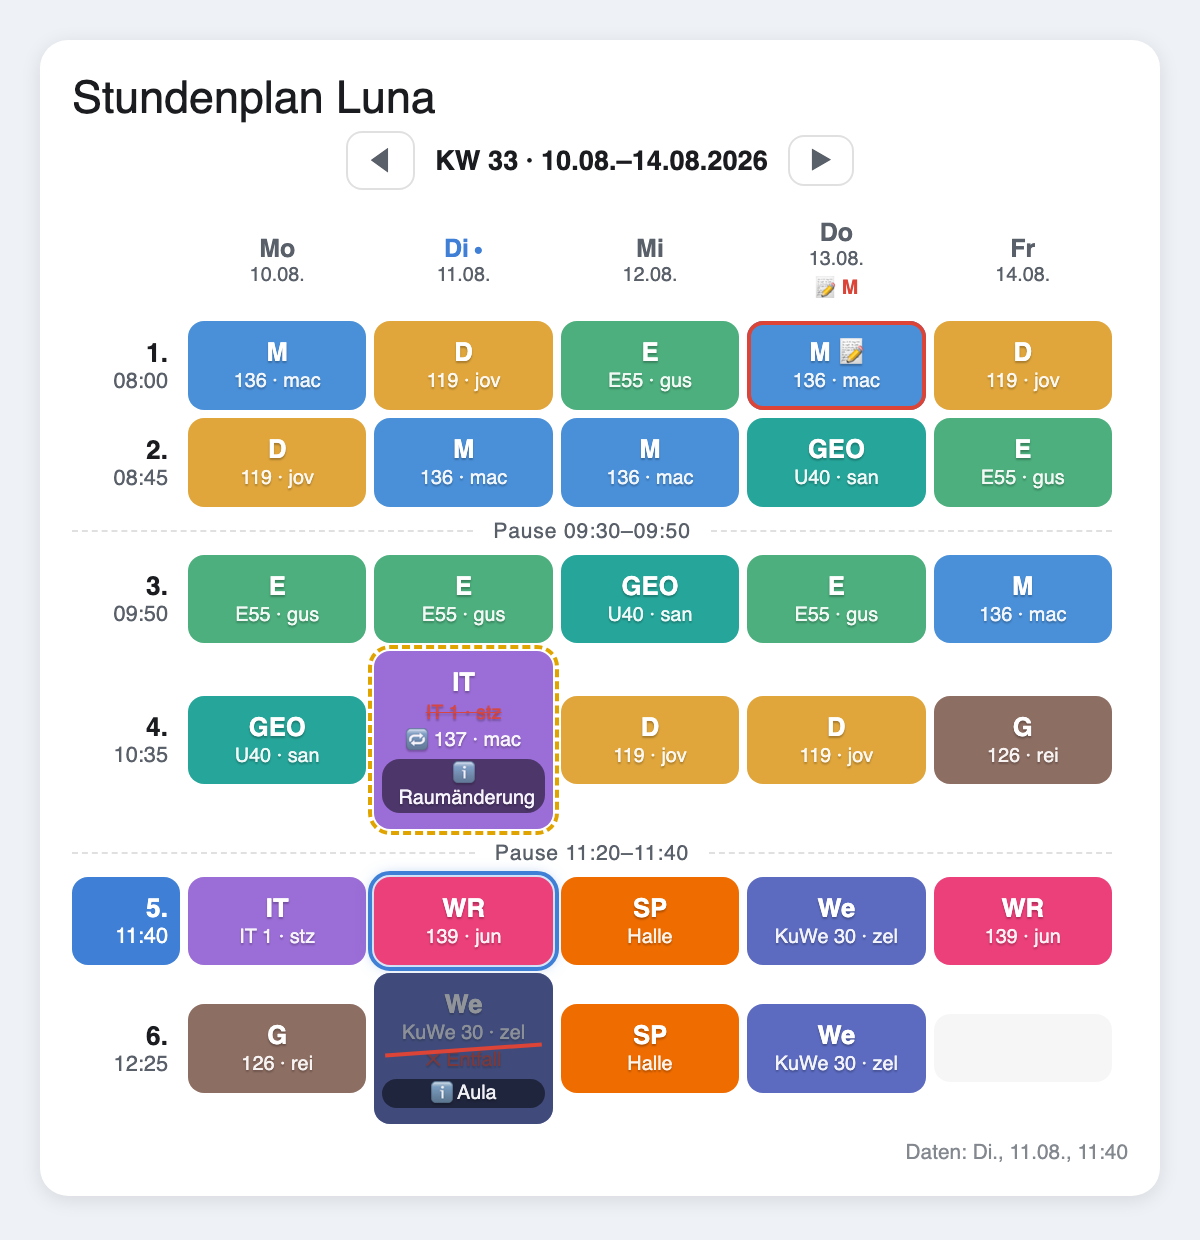
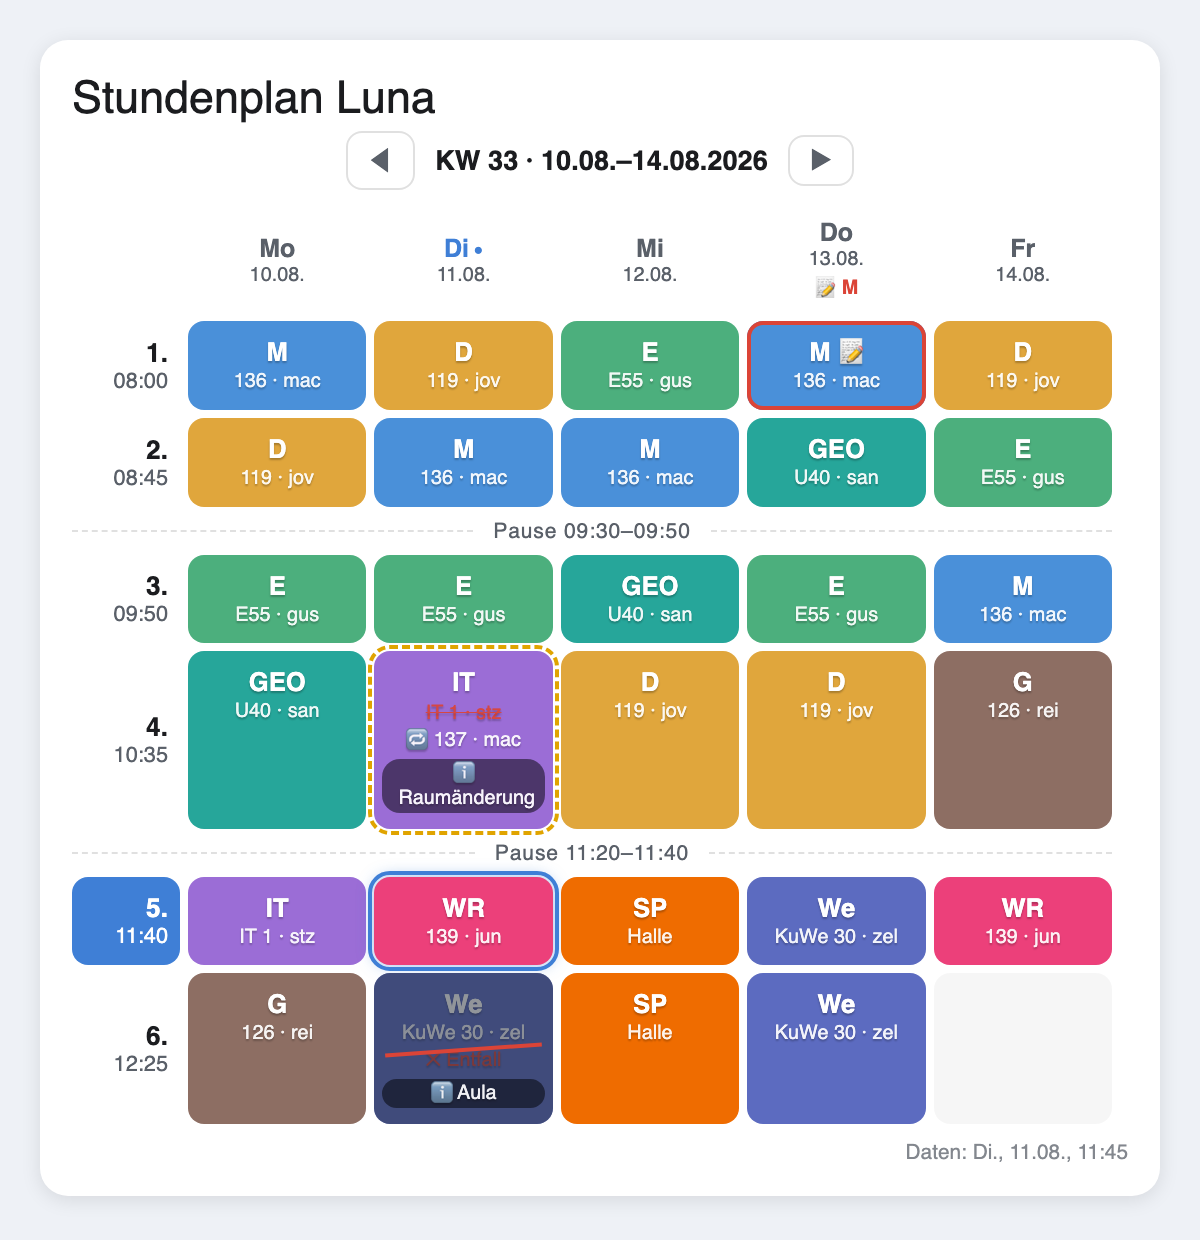
v1.25.2 / Card 1.18.3: gleiche Blockhoehe zuverlaessig in allen Browsern
Zusaetzlich zu td/fach height:100% traegt die Tabelle jetzt height:1px, damit
strenge Engines (Firefox/Safari) die Prozent-Hoehe der Zellen aufloesen.
README-Wochenbild neu aufgenommen. Ressourcen-Version steigt auf 1.18.3 und
erzwingt frisches Laden im Browser.

diff --git a/dist/stundenplan-card.js b/dist/stundenplan-card.js
@@ -1,4 +1,4 @@
-/* Stundenplan Card v1.18.2 - Companion-Karte fuer den Stundenplan Manager
+/* Stundenplan Card v1.18.3 - Companion-Karte fuer den Stundenplan Manager
  * https://github.com/Melle79/ha-stundenplan
  *
  * Konfiguration:
@@ -188,7 +188,7 @@ class StundenplanCard extends HTMLElement {
           .sp-gross .sp-liste .sp-lraum { font-size: .88rem; }
           .sp-gross .sp-leer, .sp-gross .sp-banner { font-size: 1.05rem; }
           .sp-tabelle { border-collapse: separate; border-spacing: 4px; width: 100%;
-            table-layout: fixed; margin: 0 -4px; }
+            table-layout: fixed; margin: 0 -4px; height: 1px; }
           .sp-tabelle th { color: var(--secondary-text-color); font-size: .78rem;
             font-weight: 600; padding: 2px 0 6px; }
           .sp-tabelle th.sp-heute { color: var(--primary-color); }
@@ -686,4 +686,4 @@ window.customCards.push({
   description: "Wochen- und Tagesansicht für den Stundenplan Manager (mit Blockunterricht)",
   preview: false,
 });
-console.info("%c STUNDENPLAN-CARD %c v1.18.2", "background:#4a90d9;color:#fff;padding:2px 6px;border-radius:3px", "");
+console.info("%c STUNDENPLAN-CARD %c v1.18.3", "background:#4a90d9;color:#fff;padding:2px 6px;border-radius:3px", "");

diff --git a/stundenplan-manager/rootfs/card/stundenplan-card.js b/stundenplan-manager/rootfs/card/stundenplan-card.js
@@ -1,4 +1,4 @@
-/* Stundenplan Card v1.18.2 - Companion-Karte fuer den Stundenplan Manager
+/* Stundenplan Card v1.18.3 - Companion-Karte fuer den Stundenplan Manager
  * https://github.com/Melle79/ha-stundenplan
  *
  * Konfiguration:
@@ -188,7 +188,7 @@ class StundenplanCard extends HTMLElement {
           .sp-gross .sp-liste .sp-lraum { font-size: .88rem; }
           .sp-gross .sp-leer, .sp-gross .sp-banner { font-size: 1.05rem; }
           .sp-tabelle { border-collapse: separate; border-spacing: 4px; width: 100%;
-            table-layout: fixed; margin: 0 -4px; }
+            table-layout: fixed; margin: 0 -4px; height: 1px; }
           .sp-tabelle th { color: var(--secondary-text-color); font-size: .78rem;
             font-weight: 600; padding: 2px 0 6px; }
           .sp-tabelle th.sp-heute { color: var(--primary-color); }
@@ -686,4 +686,4 @@ window.customCards.push({
   description: "Wochen- und Tagesansicht für den Stundenplan Manager (mit Blockunterricht)",
   preview: false,
 });
-console.info("%c STUNDENPLAN-CARD %c v1.18.2", "background:#4a90d9;color:#fff;padding:2px 6px;border-radius:3px", "");
+console.info("%c STUNDENPLAN-CARD %c v1.18.3", "background:#4a90d9;color:#fff;padding:2px 6px;border-radius:3px", "");

diff --git a/CHANGELOG.md b/CHANGELOG.md
@@ -1,5 +1,10 @@
 # Changelog
 
+## 1.25.2 - August 2026 (Card 1.18.3)
+
+### Behoben
+- Gleiche Blockhöhe pro Reihe jetzt wirklich in allen Browsern: Zusätzlich zu `td { height: 100% }` trägt die Tabelle nun `height: 1px` - der dokumentierte Trick, damit strenge Engines (Firefox/Safari) die Prozent-Höhe der Zellen überhaupt auflösen. In Chrome griff der Fix schon, in anderen Browsern füllten Fächer ohne Raum/Lehrer die Zeile weiterhin nicht. Die neue Karten-Version (Ressource `?v=1.18.3`) erzwingt zudem ein frisches Laden im Browser
+
 ## 1.25.1 - August 2026 (Card 1.18.2)
 
 ### Behoben
